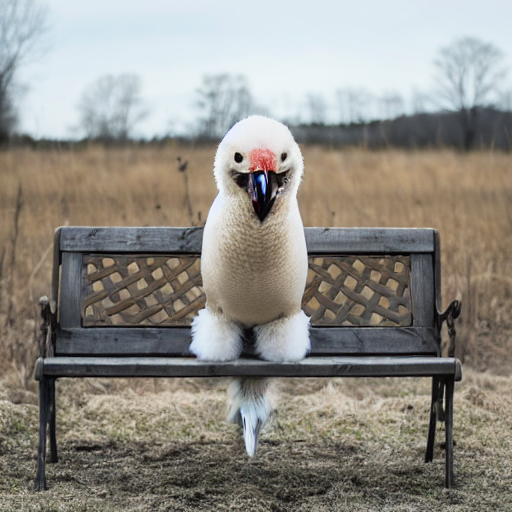
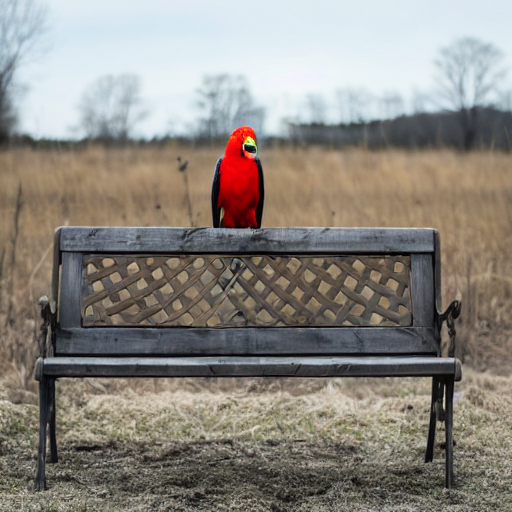
Setup exp. for pww inpainting

diff --git a/runner_inpaint.py b/runner_inpaint.py
@@ -11,7 +11,7 @@ EXAMPLE_SETTING_1 = {
         (51, 193, 217): "yellow cat,2.0,-1",
     },
     "color_map_img_path": "contents/inpaint_examples/dog_2.png",
-    "input_prompt": "Face of a yellow cat, high resolution, on a park bench",
+    "input_prompt": "Face of a yellow cat, high resolution, sitting on a park bench",
     "output_img_path": "contents/inpaint_examples/cat_output.png",
     "img_path": "contents/inpaint_examples/dog_on_bench.png",
     "mask_path": "contents/inpaint_examples/dog_mask.png",
@@ -19,21 +19,31 @@ EXAMPLE_SETTING_1 = {
 
 EXAMPLE_SETTING_2 = {
     "color_context": {
-        (51, 193, 217): "bird,2.0,-1",
+        (51, 193, 217): "red parrot,2.0,-1",
     },
-    "color_map_img_path": "contents/inpaint_examples/dog_2.png",
-    "input_prompt": "a bird, high resolution, on a park bench",
+    "color_map_img_path": "contents/inpaint_examples/dog_1.png",
+    "input_prompt": "a red parrot, high resolution, flying on a park bench",
     "output_img_path": "contents/inpaint_examples/bird_output.png",
     "img_path": "contents/inpaint_examples/dog_on_bench.png",
     "mask_path": "contents/inpaint_examples/dog_mask.png",
 }
 
+EXAMPLE_SETTING_3 = {
+    "color_context": {
+        (51, 193, 217): "flower,2.0,-1",
+    },
+    "color_map_img_path": "contents/inpaint_examples/dog_2.png",
+    "input_prompt": "a flower, high resolution, flying on a park bench",
+    "output_img_path": "contents/inpaint_examples/leaf_output.png",
+    "img_path": "contents/inpaint_examples/dog_on_bench.png",
+    "mask_path": "contents/inpaint_examples/dog_mask.png",
+}
 
 if __name__ == "__main__":
 
     dotenv.load_dotenv()
     
-    settings = EXAMPLE_SETTING_1
+    settings = EXAMPLE_SETTING_3
 
     color_map_image = Image.open(settings["color_map_img_path"]).convert("RGB")
     color_context = settings["color_context"]
@@ -49,9 +59,10 @@ if __name__ == "__main__":
         num_inference_steps=30,
         guidance_scale=7.5,
         device="cuda:0",
-        seed=0,
-        weight_function=lambda w, sigma, qk: 0.4 * w * math.log(1 + sigma) * qk.max(),
-        strength= 0.5,
+        seed=81,
+        # weight_function=lambda w, sigma, qk: 0.4 * w * math.log(1 + sigma) * qk.max(),
+        weight_function=lambda w, sigma, qk: 0.2 * w * math.log(1 + sigma) * qk.max(),
+        strength = 0.7,
     )
 
     img.save(settings["output_img_path"])

diff --git a/paint_with_words/paint_with_words_inpaint.py b/paint_with_words/paint_with_words_inpaint.py
@@ -14,7 +14,7 @@ from .paint_with_words import (
     # pww_load_tools, 
     _extract_seed_and_sigma_from_context, 
     _image_context_seperator,_blur_image_mask,_tokens_img_attention_weight,
-    _get_binary_mask, preprocess, _pil_from_latents)
+    preprocess, _pil_from_latents)
 
 
 def pww_load_tools(
@@ -77,7 +77,7 @@ def pww_load_tools(
 
 def inj_forward(self, hidden_states, context=None, mask=None):
 
-    is_dict_format = False
+    is_dict_format = True
     if context is not None:
         try:
             context_tensor = context["CONTEXT_TENSOR"]
@@ -260,14 +260,13 @@ def paint_with_words_inpaint(
     num_inference_steps: int = 30,
     guidance_scale: float = 7.5,
     seed: int = 0,
-    scheduler_type=LMSDiscreteScheduler,
+    scheduler_type = LMSDiscreteScheduler,
     device: str = "cuda:0",
     weight_function: Callable = lambda w, sigma, qk: 0.1
     * w
     * math.log(sigma + 1)
     * qk.max(),
     local_model_path: Optional[str] = None,
-    # hf_model_path: Optional[str] = "CompVis/stable-diffusion-v1-4",
     hf_model_path: Optional[str] = "runwayml/stable-diffusion-inpainting",
     preloaded_utils: Optional[Tuple] = None,
     unconditional_input_prompt: str = "",
@@ -342,12 +341,13 @@ def paint_with_words_inpaint(
     # Latent
     generator = torch.Generator(device=device)
     generator.manual_seed(seed)
+    generator_cpu = torch.manual_seed(seed)
     init_image = preprocess(init_image)
     image = init_image.to(device=device)
     init_latent_dist = vae.encode(image).latent_dist
     init_latents = init_latent_dist.sample(generator=generator)
     init_latents = 0.18215 * init_latents
-    noise = torch.randn(init_latents.shape).to(device)
+    noise = torch.randn(init_latents.shape, generator=generator_cpu).to(device)
     init_latents = scheduler.add_noise(init_latents, noise, latent_timestep)
     latents = init_latents
 

diff --git a/paint_with_words/paint_with_words.py b/paint_with_words/paint_with_words.py
@@ -274,7 +274,7 @@ def paint_with_words(
     num_inference_steps: int = 30,
     guidance_scale: float = 7.5,
     seed: int = 0,
-    scheduler_type=LMSDiscreteScheduler,
+    scheduler_type = LMSDiscreteScheduler,
     device: str = "cuda:0",
     weight_function: Callable = lambda w, sigma, qk: 0.1
     * w
